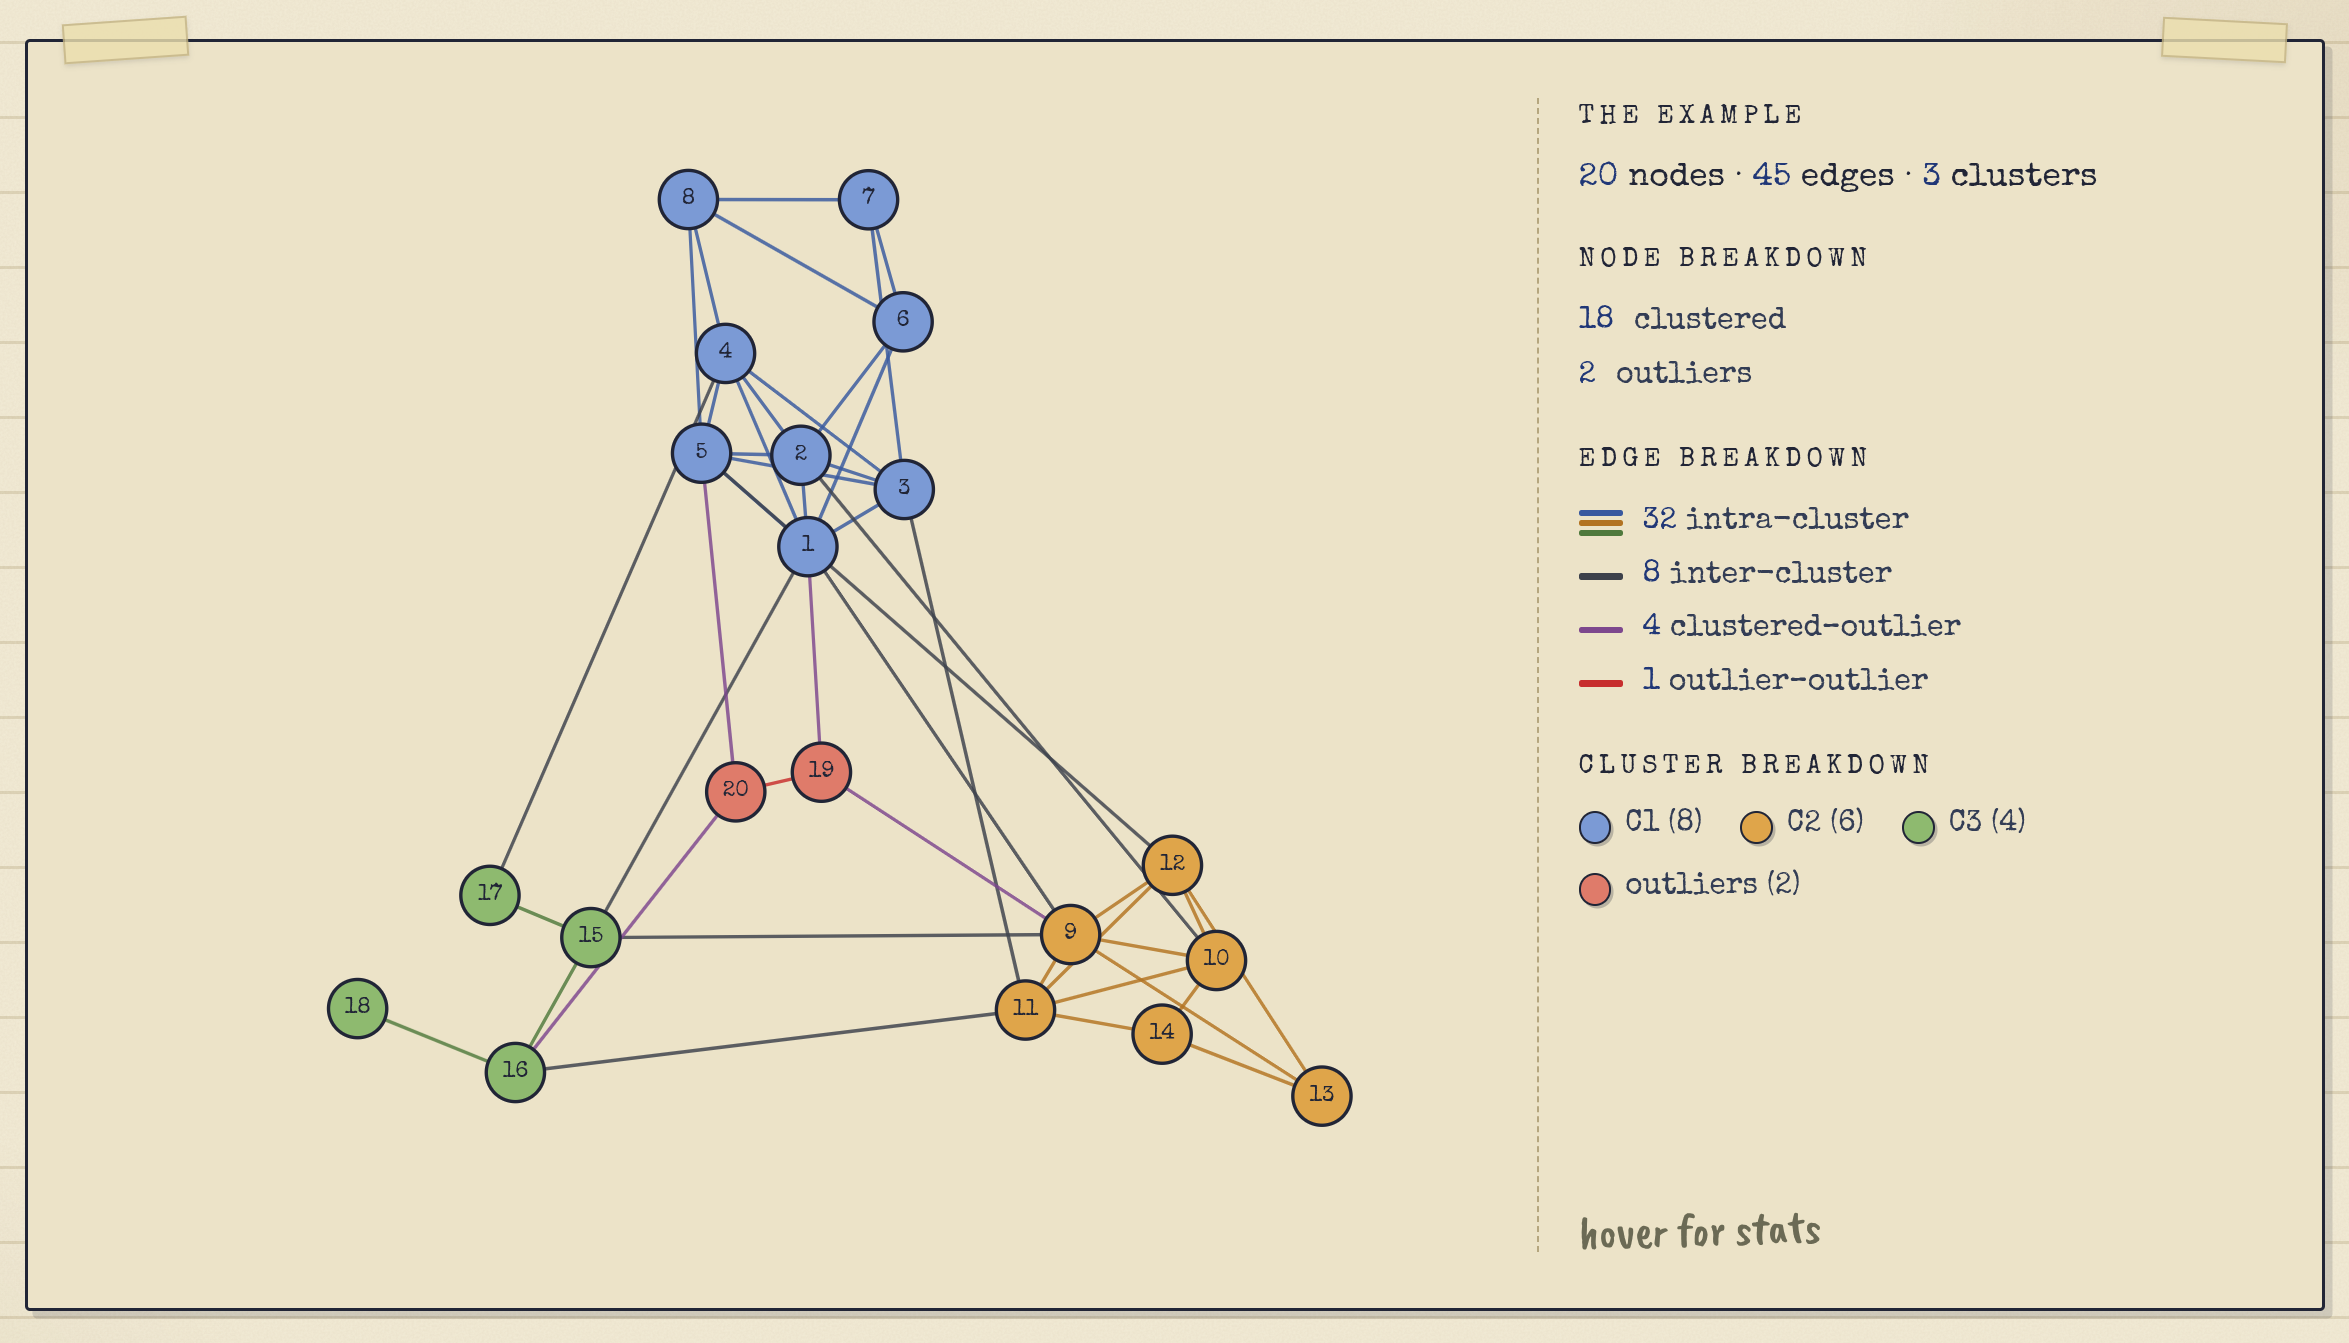
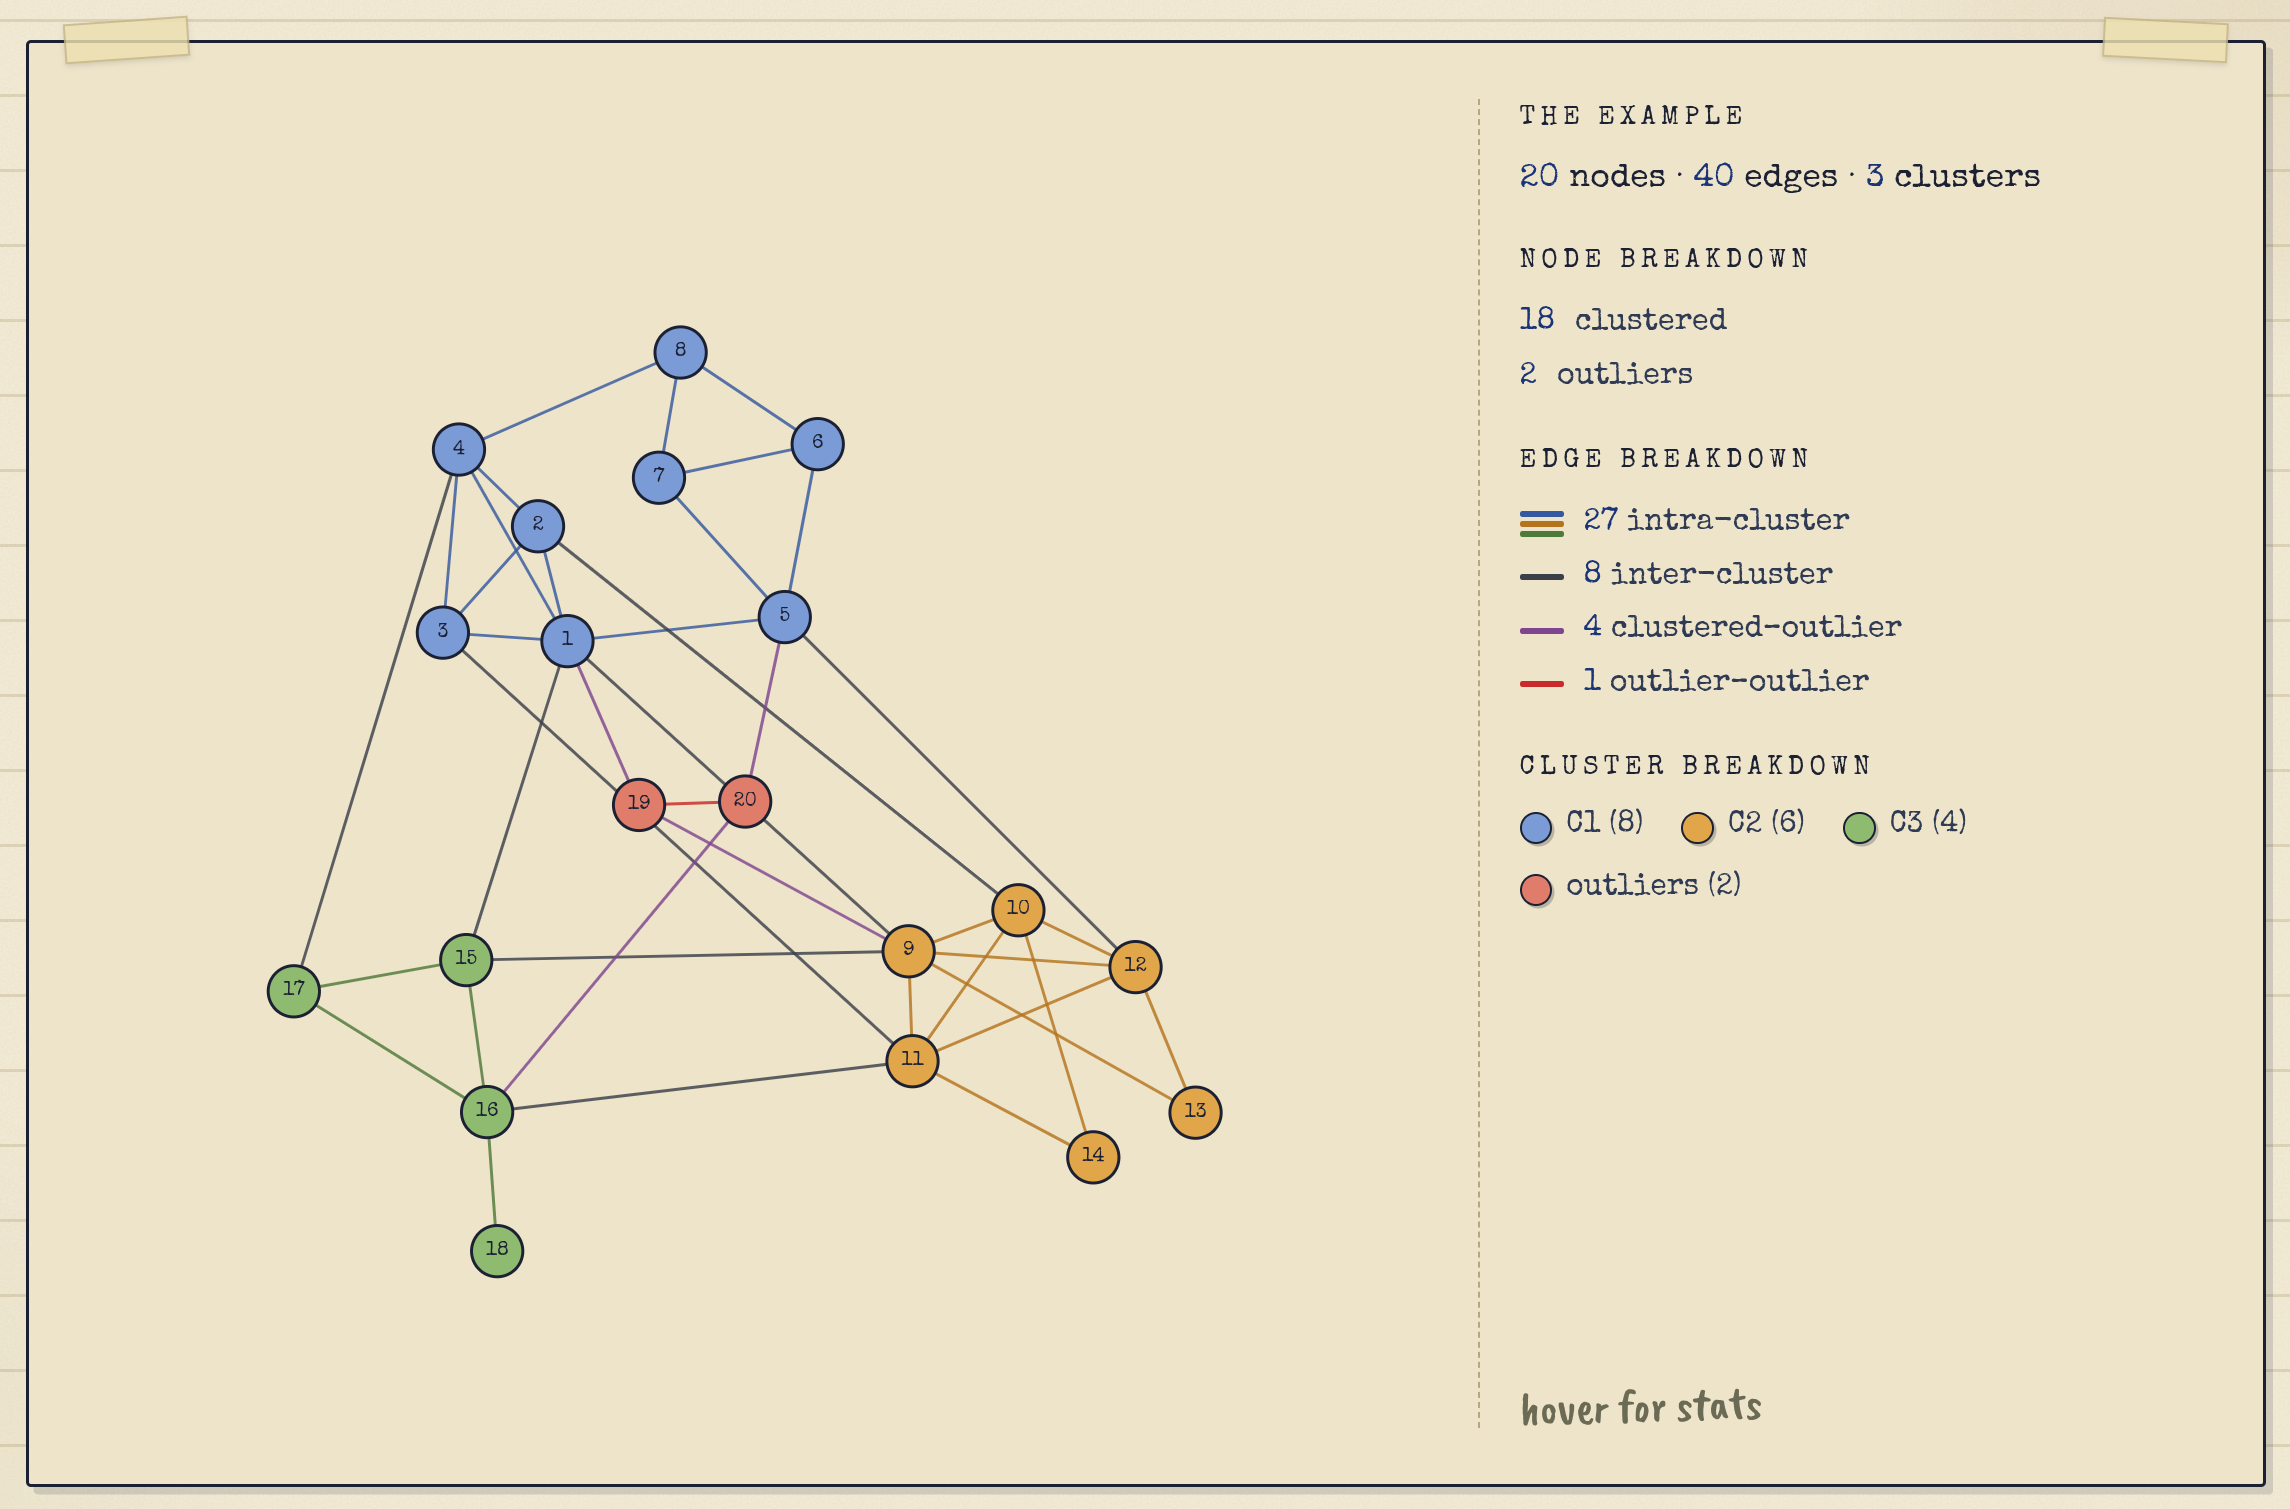
docs(netgen): sync project page with landing prose; refresh feature image

diff --git a/_projects/3_network_generation.md b/_projects/3_network_generation.md
@@ -19,9 +19,11 @@ repository:
   - vltanh/network-generation
 ---
 
-Given an empirically observed network $$G$$ (undirected, unweighted, and simple graph) together with a community structure $$\mathcal{C}$$ on its nodes (either ground-truth or produced by a community-detection algorithm), we want to sample a family of networks that are *statistically similar* to $$G$$ and $$\mathcal{C}$$ without being identical. What "statistically similar" means differs from one generator to the next: each freezes a different summary of $$G$$ and $$\mathcal{C}$$, and randomises the rest.
+Given a network $$G$$ (undirected, unweighted, simple) with a community structure $$\mathcal{C}$$ on its nodes, we want to sample a family of networks that are *statistically similar* to $$G$$ and $$\mathcal{C}$$ without being identical. $$\mathcal{C}$$ can be ground-truth or produced by a community-detection algorithm; the generator does not care which. What "statistically similar" means differs from one generator to the next: each freezes a different summary of $$G$$ and $$\mathcal{C}$$, and randomises the rest.
 
-This project wraps seven such generators under a single two-stage pipeline: one stage extracts a small statistical profile from the input, the other consumes the profile and samples a synthetic output. The pipeline is intentionally decoupled, so the same profile can feed different generators, and the same generator can be pointed at different profiles.
+Scoring a community-detection algorithm requires networks whose answer can be checked. An empirical network gives only one labelling, which may itself be wrong, and a single network is a sample of one. Synthetics fix that: each generator emits a network and its ground-truth clustering together, across as many seeds, sizes, and noise levels as the test demands.
+
+This project wraps seven such generators under a single pipeline that is shared across all of them: one stage profiles the input to extract the parameters the generator needs, the next consumes that profile and samples a synthetic output, and an optional post-processing tail aligns the output back to the input. The stages are decoupled, so the same profile can feed different generators, and the same generator can be pointed at different profiles.
 
 <div class="row justify-content-center">
   <div class="col-sm-12 mt-3 mt-md-0">
@@ -35,21 +37,33 @@ This project wraps seven such generators under a single two-stage pipeline: one 
 
 Each generator has its own page: a vertical scroll that starts with the question the generator tries to answer, meets the shared input, walks through the stages one widget at a time, and ends with a plain note on what is preserved and what drifts.
 
-**Block-model-based generators.** Central objects: the cluster assignment $$\mathcal{C}$$, the block-to-block edge-count matrix, and (as the variants here all use the degree-corrected SBM) the per-node degree sequence. Variants add further structural constraints (per-cluster edge connectivity) on top.
+Two labels recur across the pages: a node is either inside a non-trivial community or standing alone, and generators treat the two cases differently.
+- **clustered**: node that belongs to a community of size $$\geq 2$$.
+- **outlier**: node that is unclustered, or the sole member of a singleton community.
 
-- [sbm](/netgen/sbm.html): the degree-corrected variant of the classic SBM. Keeps the cluster assignment $$\mathcal{C}$$, the block-to-block edge counts, and the per-node degree sequence; the rest is random. The baseline the other block-model variants build on.
-- [ec-sbm-v1](/netgen/ec-sbm-v1.html): SBM with an edge-connectivity guarantee: each output cluster is at least as edge-connected as its input counterpart, delivered by stitching a hand-built $$k$$-edge-connected core into each cluster before sampling. Outliers are treated as singleton clusters, which effectively replicates the edges between them; a naive greedy matcher fills any residual degree deficit.
-- [ec-sbm-v2](/netgen/ec-sbm-v2.html): same edge-connectivity guarantee as v1, with two changes. Treating outliers as singleton clusters, as v1 does, can accidentally regenerate community-like structure among them; v2 folds all outliers into a single block instead. Residual accounting is cleaner too: one SBM call, a block-preserving rewire, and a hybrid degree-matching pass.
+**Block-model generators.** Central objects: the cluster assignment $$\mathcal{C}$$, the block-to-block edge-count matrix, and the per-node degree sequence (every variant here uses the degree-corrected SBM). Variants add further structural constraints (per-cluster edge connectivity) on top.
 
-**Mixing-parameter-based generators.** Central object: a single scalar setting the proportion of edges that cross cluster boundaries. Variants differ in what drives the degrees and cluster sizes.
+- [sbm](/netgen/sbm.html): the degree-corrected variant of the classic SBM. Keeps the cluster assignment, the block-to-block edge counts, and the per-node degree sequence; the rest is random. The baseline the other block-model variants build on.
+- [ec-sbm-v1](/netgen/ec-sbm-v1.html): SBM with an edge-connectivity guarantee: a hand-built $$k$$-edge-connected core is stitched into each cluster before sampling, so each output cluster ends up at least as edge-connected as its input counterpart. Outliers are treated as singleton clusters, which replicates the edges between them; a naive greedy matcher fills any residual degree deficit.
+- [ec-sbm-v2](/netgen/ec-sbm-v2.html): same edge-connectivity guarantee as v1, with two changes. Treating outliers as singleton clusters can accidentally regenerate community-like structure among them; v2 folds all outliers into a single block instead. Residual accounting is simpler too: one SBM call, a block-preserving rewire, and a hybrid degree-matching pass.
 
-- [lfr](/netgen/lfr.html): fits power laws to the degree distribution and the cluster sizes, resamples both from scratch, and discards the original. Mixing is the mean of a per-node fraction $$\mu$$; the long-standing community-detection benchmark.
+**Mixing-parameter generators.** Central object: a single scalar setting the fraction of edges that cross cluster boundaries. Variants differ in what drives the degrees and cluster sizes (resampled from a power law, or taken as given).
+
+- [lfr](/netgen/lfr.html): fits power laws to the degree distribution and the cluster sizes, resamples both from scratch, and discards the original. Mixing is the mean of a per-node fraction $$\mu$$. The long-standing community-detection benchmark.
 - [abcd](/netgen/abcd.html): a faster, more tractable alternative to LFR. Takes the degree sequence and cluster sizes as given; a single global mixing parameter $$\xi$$ sets the proportion of edges that cross cluster boundaries.
-- [abcd+o](/netgen/abcd+o.html): ABCD with an explicit outlier block. Outliers connect only outward and never to each other.
+- [abcd+o](/netgen/abcd+o.html): ABCD with an explicit outlier block. The sampler picks the outlier set at random; outlier-outlier edges are not expected.
 
 **Geometric generators.** Nodes placed in a latent geometric space; edges drawn from proximity. The only family here where clustering coefficient is a design goal rather than a side effect.
 
 - [npso](/netgen/npso.html): embeds nodes on a hyperbolic disk and connects pairs that lie close in the geometry; a temperature knob trades clustering coefficient against randomness.
+
+## Pipeline
+
+Every generator runs the same three stages.
+
+1. **Profile.** Read $$G$$ and $$\mathcal{C}$$, extract only the summary the generator needs (block edge counts, degree sequence, mixing parameter, power-law fits, etc.), and write it out as the gen stage's only input.
+2. **Generate.** Consume the profile and sample a fresh graph. This stage runs standalone and never reads the original network.
+3. **Post-process.** Up to three optional steps. *Match-degree* rewires the generated edges so the output degree sequence aligns to the input (see the [degree-matcher comparison](/netgen/matcher.html)). *Simplify* collapses parallel edges and drops self-loops. *Singleton drop* removes size-1 clusters and relabels the lone inhabitant as an outlier.
 
 ## Reproducibility
 
